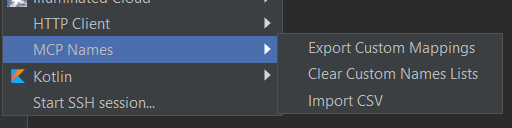
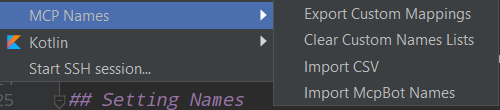
update readme

diff --git a/README.md b/README.md
@@ -1,7 +1,7 @@
 # SRGNamer IDEA Plugin
 Plugin to help with assigning MCP names to unassigned names. Likely to eventually be updated to work with the new mapping service when it gets done.
 
-Currently intended for use with [MC Names 1.15](https://github.com/thiakil/MC-Names-1.15).
+Originally intended for use with [MC Names 1.15](https://github.com/thiakil/MC-Names-1.15), supports generating an McpBot command (to clipboard) and retrieving the test csv exports.
 
 ## Licence
 Apache License version 2.0
@@ -11,6 +11,7 @@ Open Settings -> Plugins -> Cog icon -> Install Plugin from Disk -> select zip f
 
 # Usage
 A submenu is added to the Tools menu for managing import & export of names.
+
 ![Tools Menu](images/tools_menu.png)
 
 ### Export Custom Mappings
@@ -22,6 +23,9 @@ Removes all names from the stored list. Cannot be undone.
 ### Import CSV
 Imports a list of names from all CSVs selected in the dialog. Overwrites any existing names stored for the same SRG name.
 
+### Import McpBot Names
+Downloads semi-live methods/fields/params CSVs from [MCPBot Exports](http://export.mcpbot.bspk.rs/) and overwrites names stored in the plugin's custom list. Works as a background task (check the status bar). No real error handling (soon™). 
+
 ## Setting Names
 SRG names found will be "folded" and placeholder text set (which will be the SRG name if none is set in the plugin's list).
 
@@ -30,3 +34,7 @@ SRG names found will be "folded" and placeholder text set (which will be the SRG
 To set a name, right click a name and select Set Name (default shortcut alt-F6).
 
 ![Set Name Action](images/set_name_menu.png)
+
+![Set Name Dialog](images/set_name_dialog.png)
+
+Enter a name and comment and press OK to save to the local list. When the checkbox is ticked, it will copy the command to your clipboard for pasting into an IRC window (integrating an IRC client into the plugin is complicated).
